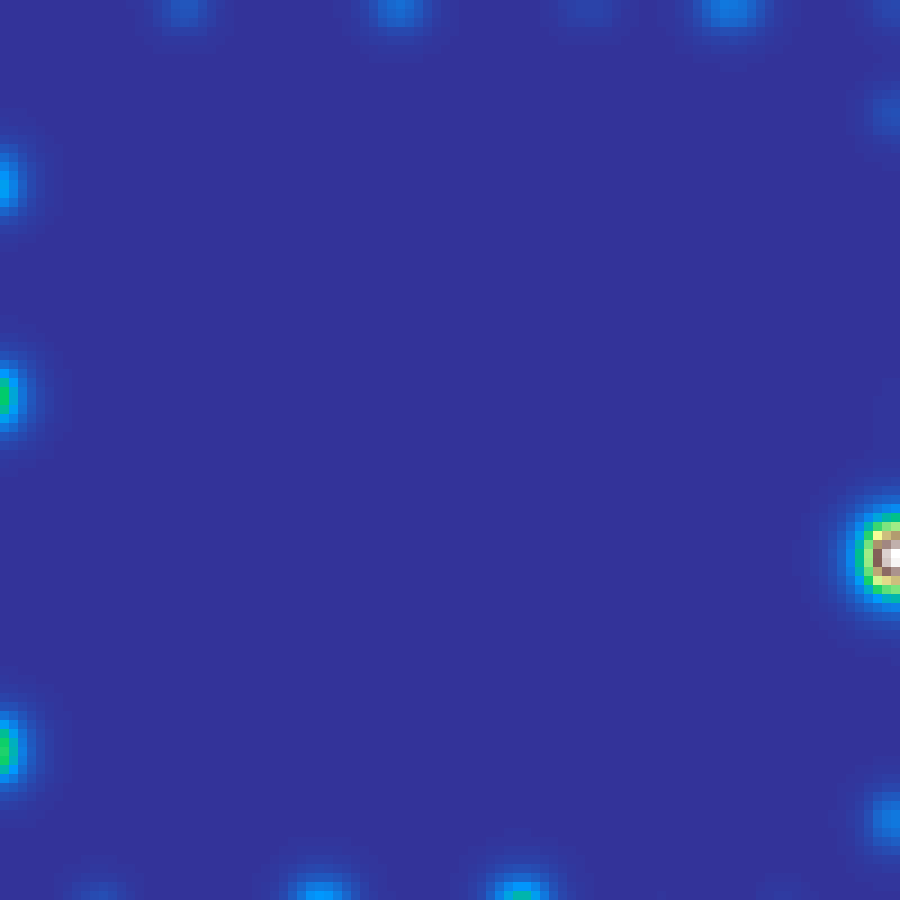
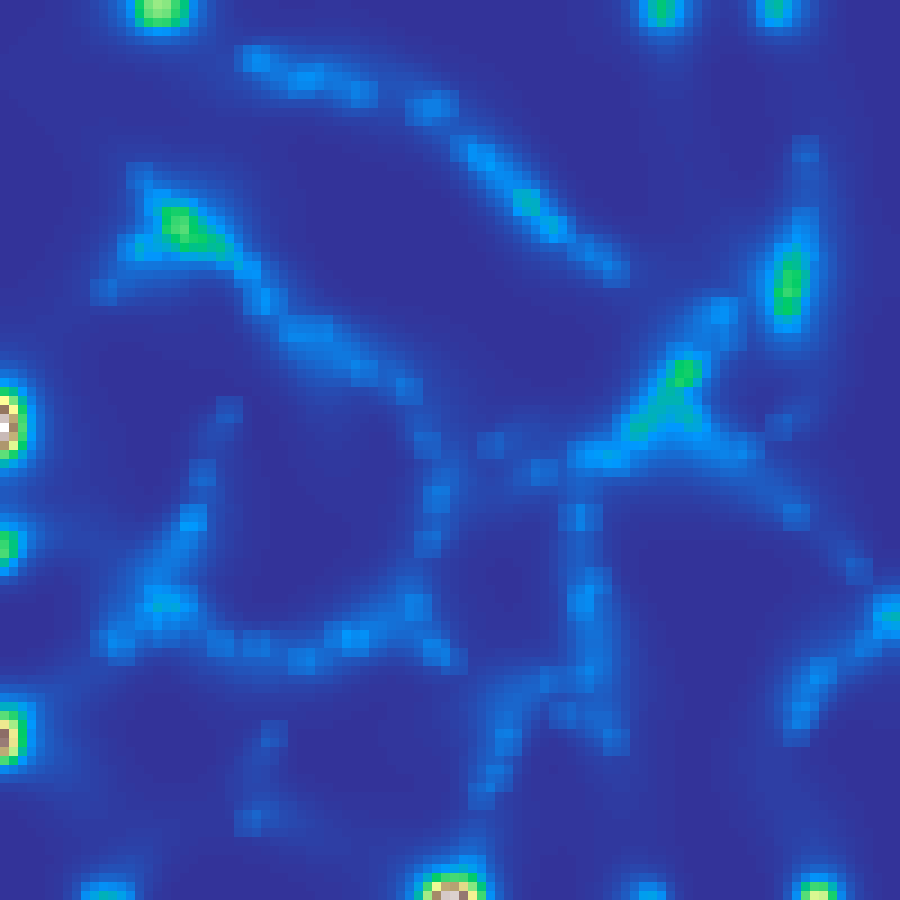
feat: update example parameters for physarum

diff --git a/scripts/visualize.py b/scripts/visualize.py
@@ -87,7 +87,7 @@ ALGORITHMS = [
     ("perlin_worley",            "perlin_worley",            {"scale": 4.0}),
     ("fault_uplift",             "fault_uplift",             {"n": 50}),
     ("triangular_tessellation",  "triangular_tessellation",  {"n": 30}),
-    ("physarum",                 "physarum",                 {"n": 1000, "iterations": 300}),
+    ("physarum",                 "physarum",                 {"n": 150, "iterations": 25}),
     ("cahn_hilliard",            "cahn_hilliard",            {"iterations": 2000}),
     ("crystal_growth",           "crystal_growth",           {"iterations": 300}),
     ("predator_prey",            "predator_prey",            {"iterations": 500}),
